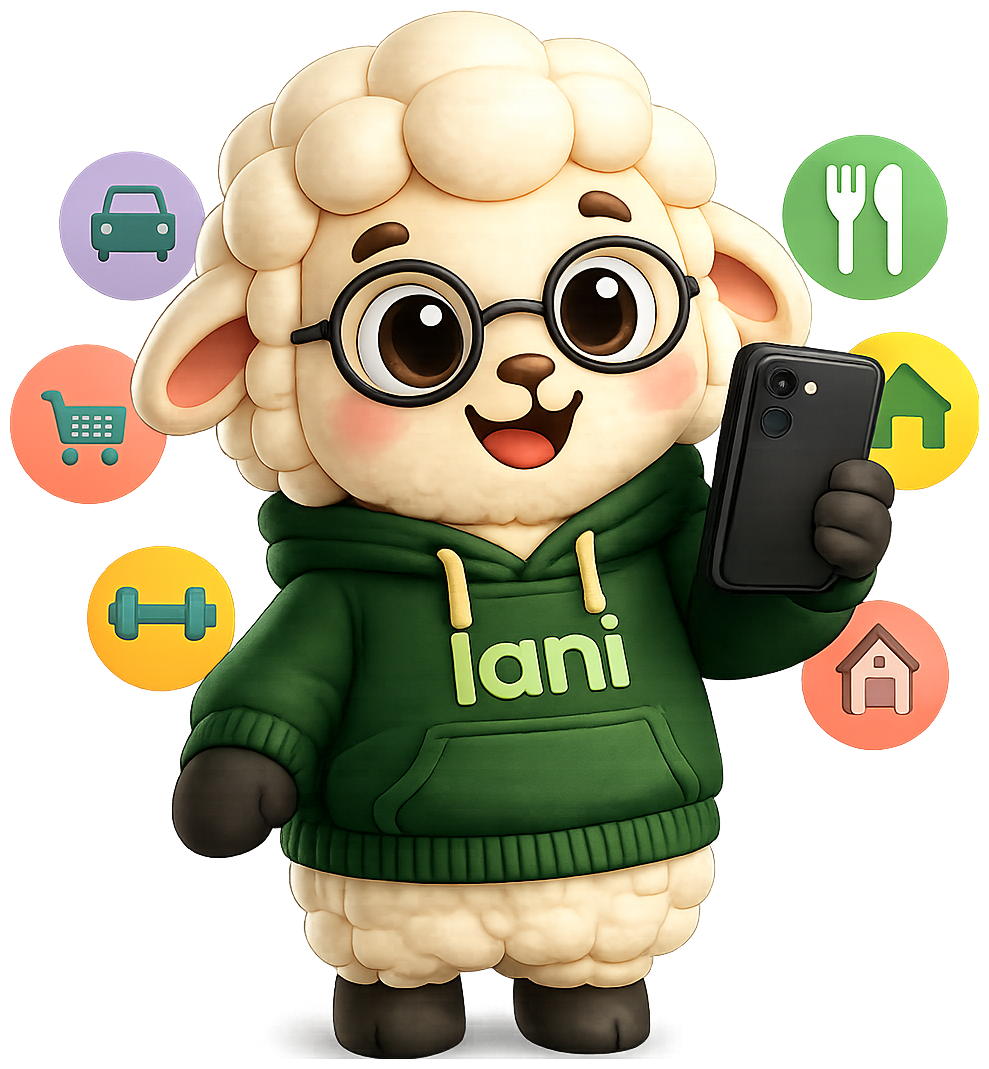
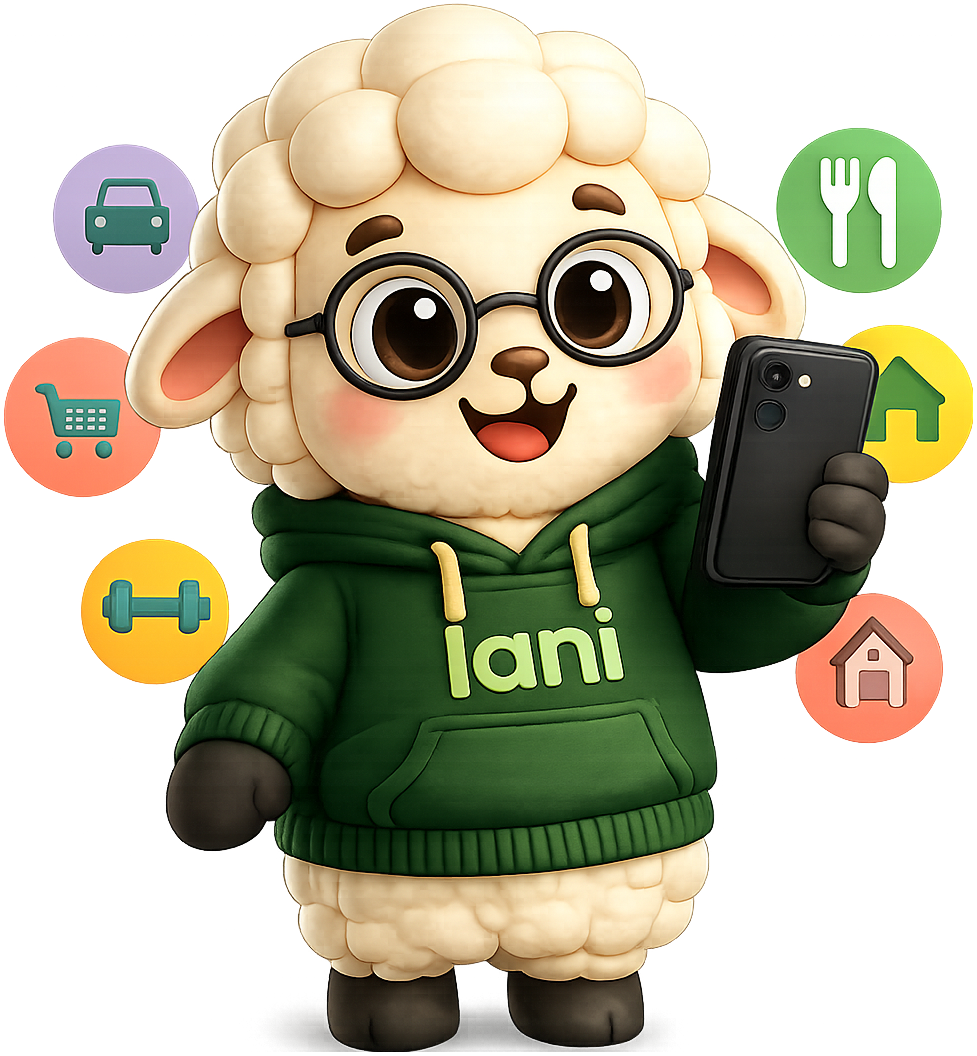
Corrige tamaño Lani_organiza: recorte ajustado y altura 92%

diff --git a/src/components/OnboardingStep1.tsx b/src/components/OnboardingStep1.tsx
@@ -11,7 +11,7 @@ const PANTALLAS = [
   { id: 1, titulo: "¡Hola! Soy Lani",            subtitulo: "Estoy aquí para ayudarte con tu dinero, sin estrés.", cta: "Continuar", imagen: "/Lani_cropped.png",         altura: "92%",  bajada: "0%"  },
   { id: 2, titulo: "Toma una foto a tu ticket",   subtitulo: "Yo registro todo automáticamente.",                  cta: "Continuar", imagen: "/Lani_ticket_crop.png",     altura: "104%", bajada: "0%"  },
   { id: 3, titulo: "Háblame por WhatsApp",         subtitulo: "Solo dime lo que gastaste.",                         cta: "Continuar", imagen: "/Lani_whatsapp_crop.png",  altura: "120%", bajada: "-10%"  },
-  { id: 4, titulo: "Yo organizo todo",             subtitulo: "Tus gastos se ordenan solos.",                       cta: "Continuar", imagen: "/Lani_organiza_crop.png",   altura: "126%", bajada: "-8%" },
+  { id: 4, titulo: "Yo organizo todo",             subtitulo: "Tus gastos se ordenan solos.",                       cta: "Continuar", imagen: "/Lani_organiza_crop.png",   altura: "92%",  bajada: "0%"  },
   { id: 5, titulo: "Entiende tu dinero",           subtitulo: "Gráficas simples y claras.",                         cta: "Continuar", imagen: "/Lani_cropped.png",         altura: "92%",  bajada: "0%"  },
   { id: 6, titulo: "Cumple tus metas",             subtitulo: "Ahorra y celebra conmigo.",                          cta: "¡Empezar!", imagen: "/Lani_cropped.png",         altura: "92%",  bajada: "0%"  },
 ];
